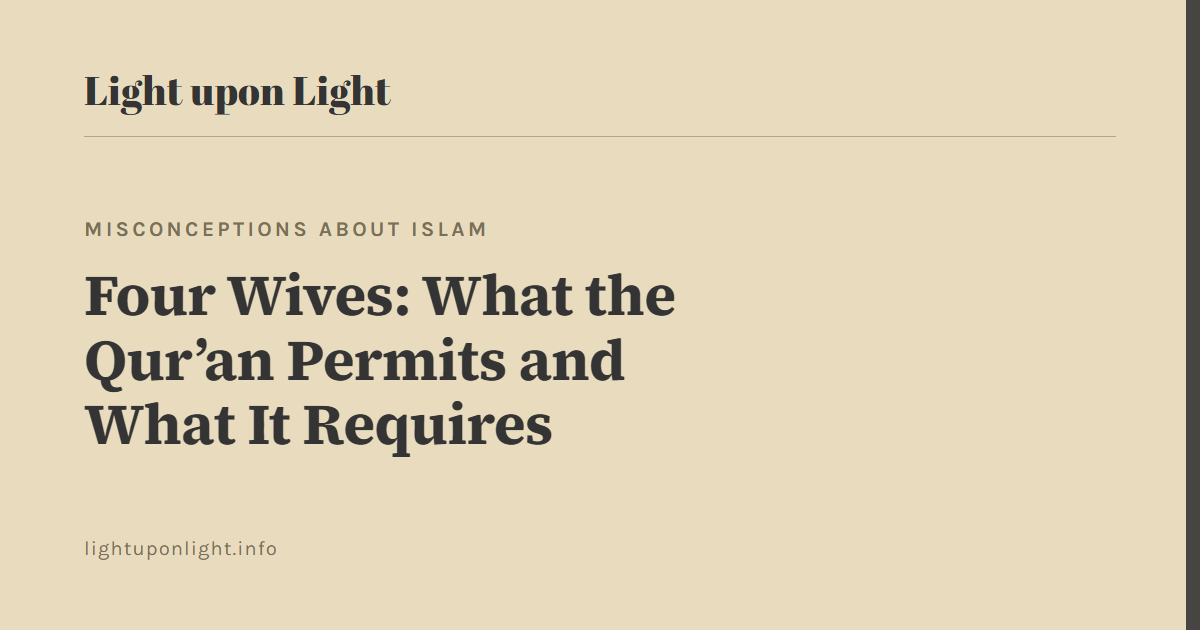
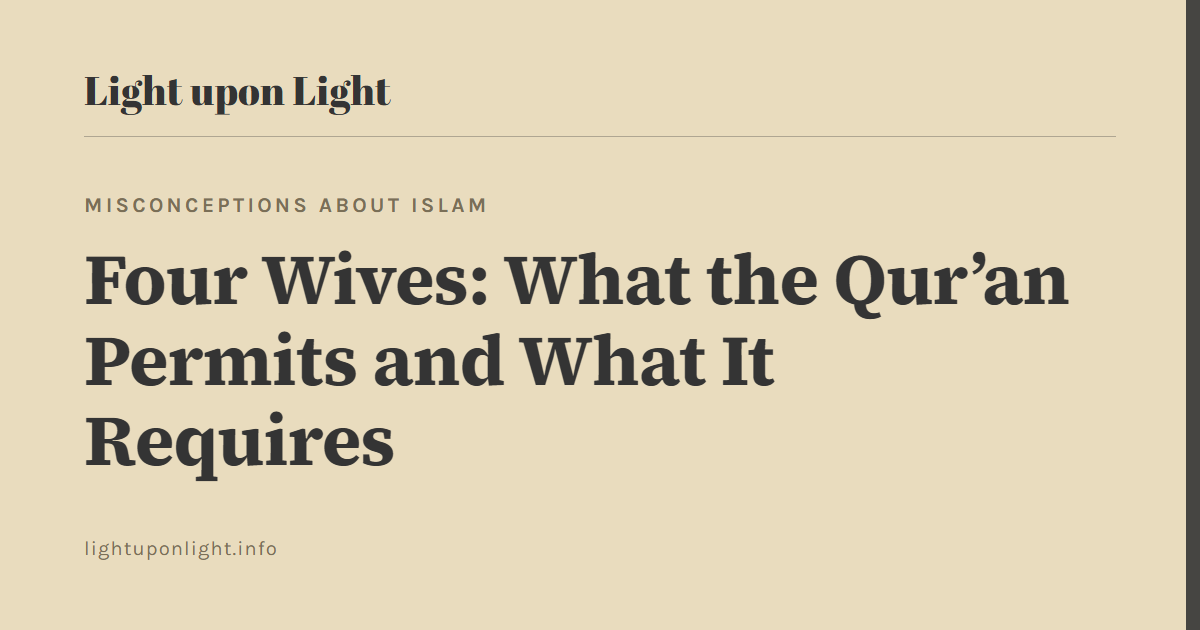
og cards: fit title by measuring, not by length tier
The length-based size tiers dropped some titles (the /quran hub among them)
to 58px while similar-length ones stayed at 72px. Replace with a shrink
loop that keeps every title at 72px unless it overflows its box.

Changed region(s): [[0.0617, 0.3016, 0.8942, 0.7841]]

diff --git a/_notes/scripts/og/og.html b/_notes/scripts/og/og.html
@@ -89,11 +89,8 @@
     font-size: 72px;
     line-height: 1.12;
     letter-spacing: -0.01em;
-    max-width: 20ch;
+    max-width: 1000px;
   }
-
-  .title.long { font-size: 58px; }
-  .title.xlong { font-size: 48px; }
 
   .footer {
     font-family: "Karla", "Source Serif 4", sans-serif;
@@ -121,11 +118,14 @@
   const k = document.getElementById("kicker");
   if (kicker) { k.textContent = kicker; } else { k.style.display = "none"; }
 
-  // scale title down by length so it always fits
+  // Shrink the title to fit its box rather than guessing from length, so
+  // short and long titles land at a consistent size where they can.
   const t = document.getElementById("title");
-  const len = title.length;
-  if (len > 78) { t.classList.add("xlong"); }
-  else if (len > 44) { t.classList.add("long"); }
+  const MAX_H = kicker ? 320 : 360; // px available for the title block
+  for (let px = 72; px >= 40; px -= 2) {
+    t.style.fontSize = px + "px";
+    if (t.scrollHeight <= MAX_H && t.scrollWidth <= t.clientWidth) break;
+  }
 </script>
 </body>
 </html>
